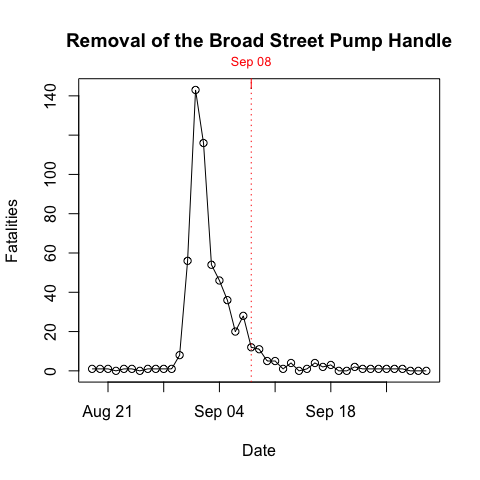
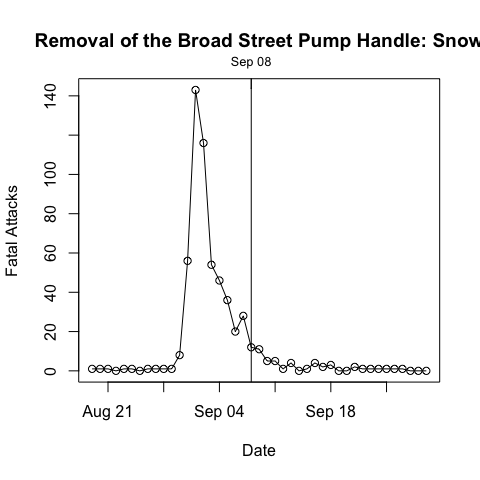
amend Time Series vignette

Changed region(s): [[0.0625, 0.0625, 1.0, 0.7812], [0.0, 0.375, 0.0625, 0.5938]]

diff --git a/docs/vignettes/time.series.md b/docs/vignettes/time.series.md
@@ -1,7 +1,7 @@
 Time Series
 ================
 lindbrook
-2025-03-12
+2026-02-27
 
 ## Overview
 
@@ -17,12 +17,33 @@ by the time the pump was removed on Friday, 08 September 1854, “the
 epidemic had evidently subsided” (Snow 1855b, 153).
 
 As part of the Vestry Report, both he and the committee included
-separate tables that appear to reflect separate data on the number of
-deaths and fatalities. I have included both as separate data sets coded
-in `timeSeries()`, which can be visualized using its plot method.
+separate tables for the number of deaths and fatalities. I have included
+the four sets data in `timeSeries()`. They can be visualized using the
+function’s generic plot method.
 
 ``` r
 plot(timeSeries())
 ```
 
-<img src="time.series_files/figure-gfm/unnamed-chunk-2-1.png" style="display: block; margin: auto;" />
+<img src="time.series_files/figure-gfm/unnamed-chunk-2-1.png" alt="" style="display: block; margin: auto;" />
+
+The overall data approximate one another. The same statistics from the
+different sources are very close.
+
+``` r
+plot(timeSeries(dataset = "all"), multi.plot = TRUE, points = FALSE)
+```
+
+<img src="time.series_files/figure-gfm/unnamed-chunk-3-1.png" alt="" style="display: block; margin: auto;" />
+
+``` r
+plot(timeSeries(dataset = c("snow-deaths", "vestry-deaths")), multi.plot = TRUE, points = FALSE)
+```
+
+<img src="time.series_files/figure-gfm/unnamed-chunk-4-1.png" alt="" style="display: block; margin: auto;" />
+
+``` r
+plot(timeSeries(dataset = c("snow-fatal.attacks", "vestry-fatal.attacks")), multi.plot = TRUE, points = FALSE)
+```
+
+<img src="time.series_files/figure-gfm/unnamed-chunk-5-1.png" alt="" style="display: block; margin: auto;" />

diff --git a/README.md b/README.md
@@ -1,7 +1,7 @@
 
 <!-- README.md is generated from README.Rmd. Please edit that file -->
 [![CRAN\_Status\_Badge](https://www.r-pkg.org/badges/version/cholera)](https://cran.r-project.org/package=cholera)
-[![GitHub\_Status\_Badge](https://img.shields.io/badge/GitHub-0.9.1.9089-red.svg)](https://github.com/lindbrook/cholera/blob/master/NEWS.md)
+[![GitHub\_Status\_Badge](https://img.shields.io/badge/GitHub-0.9.1.9090-red.svg)](https://github.com/lindbrook/cholera/blob/master/NEWS.md)
 ## cholera: amend, augment and aid analysis of Snow’s cholera map
 
 #### package features

diff --git a/NEWS.md b/NEWS.md
@@ -1,3 +1,8 @@
+# cholera 0.9.1.9090
+
+- amend Time Series vignette.
+
+
 # cholera 0.9.1.9089
 
 - add/set dataset = NULL and move 'statistic' and 'vestry' to timeSeries().
